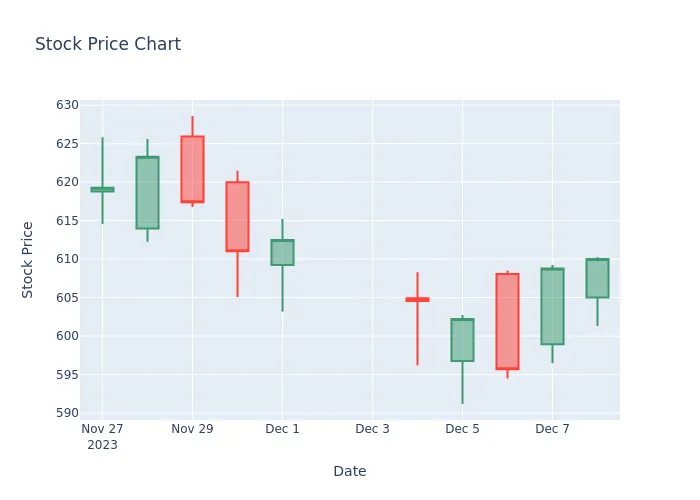
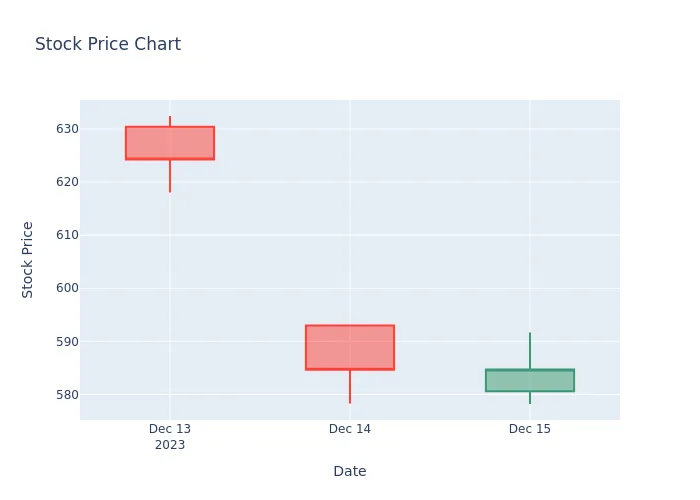
new dips

diff --git a/content/dipfinder.md b/content/dipfinder.md
@@ -23,7 +23,7 @@ Imagine you own a share of a company, which is like owning a tiny piece of that 
 In my case I wanted to find the longest consecutive "dip" of a stockprice regardless of temporary up's.
 
 ## Dip's
-The latest and greatest dips, updated at: **2023-12-10** (next: 2023-12-10)
+The latest and greatest dips, updated at: **2023-12-17** (next: 2023-12-17)
 
 | Symbol | Name | Loss | Days |
 | :----: | ---- | ---- | ---- |
@@ -33,10 +33,10 @@ The latest and greatest dips, updated at: **2023-12-10** (next: 2023-12-10)
 | [BABA](https://finance.yahoo.com/quote/BABA) | BABA | -30.219% | 254 |
 | [PFE](https://finance.yahoo.com/quote/PFE) | PFE | -28.662% | 242 |
 | [WBD](https://finance.yahoo.com/quote/WBD) | WBD | -28.043% | 284 |
-| [PYPL](https://finance.yahoo.com/quote/PYPL) | PYPL | -23.781% | 236 |
 | [NEE](https://finance.yahoo.com/quote/NEE) | NEE | -22.834% | 229 |
 | [MRK.DE](https://finance.yahoo.com/quote/MRK.DE) | MRK.DE | -21.916% | 288 |
 | [TCEHY](https://finance.yahoo.com/quote/TCEHY) | TCEHY | -21.497% | 254 |
+| [PYPL](https://finance.yahoo.com/quote/PYPL) | PYPL | -20.781% | 243 |
 | [SCHW](https://finance.yahoo.com/quote/SCHW) | SCHW | -19.414% | 287 |
 | [DE](https://finance.yahoo.com/quote/DE) | DE | -18.233% | 137 |
 | [MBG.DE](https://finance.yahoo.com/quote/MBG.DE) | MBG.DE | -17.385% | 176 |
@@ -70,6 +70,7 @@ The latest and greatest dips, updated at: **2023-12-10** (next: 2023-12-10)
 | [NVS](https://finance.yahoo.com/quote/NVS) | NVS | -8.399% | 142 |
 | [NVO](https://finance.yahoo.com/quote/NVO) | NVO | -8.355% | 14 |
 | [HXL](https://finance.yahoo.com/quote/HXL) | HXL | -8.209% | 150 |
+| [ADBE](https://finance.yahoo.com/quote/ADBE) | ADBE | -7.73% | 3 |
 | [ABBV](https://finance.yahoo.com/quote/ABBV) | ABBV | -7.553% | 228 |
 | [BAC](https://finance.yahoo.com/quote/BAC) | BAC | -7.148% | 280 |
 | [PG](https://finance.yahoo.com/quote/PG) | PG | -7.018% | 123 |
@@ -79,30 +80,28 @@ The latest and greatest dips, updated at: **2023-12-10** (next: 2023-12-10)
 | [NVDA](https://finance.yahoo.com/quote/NVDA) | NVDA | -5.751% | 18 |
 | [DTG.DE](https://finance.yahoo.com/quote/DTG.DE) | DTG.DE | -5.729% | 121 |
 | [TSM](https://finance.yahoo.com/quote/TSM) | TSM | -5.695% | 178 |
+| [GOOG](https://finance.yahoo.com/quote/GOOG) | GOOG | -5.547% | 66 |
 | [NDAQ](https://finance.yahoo.com/quote/NDAQ) | NDAQ | -5.494% | 183 |
 | [AMGN](https://finance.yahoo.com/quote/AMGN) | AMGN | -5.453% | 54 |
 | [MMM](https://finance.yahoo.com/quote/MMM) | MMM | -5.392% | 136 |
 | [NFLX](https://finance.yahoo.com/quote/NFLX) | NFLX | -5.38% | 14 |
-| [AVGO](https://finance.yahoo.com/quote/AVGO) | AVGO | -5.163% | 18 |
 | [CL](https://finance.yahoo.com/quote/CL) | CL | -4.647% | 211 |
 | [BAH](https://finance.yahoo.com/quote/BAH) | BAH | -4.519% | 4 |
 | [MELI](https://finance.yahoo.com/quote/MELI) | MELI | -4.481% | 7 |
 | [VEOEY](https://finance.yahoo.com/quote/VEOEY) | VEOEY | -4.154% | 141 |
 | [ICE](https://finance.yahoo.com/quote/ICE) | ICE | -4.066% | 102 |
-| [GOOG](https://finance.yahoo.com/quote/GOOG) | GOOG | -3.571% | 59 |
 | [CRM](https://finance.yahoo.com/quote/CRM) | CRM | -3.535% | 7 |
 | [C](https://finance.yahoo.com/quote/C) | C | -3.25% | 280 |
 | [LLY](https://finance.yahoo.com/quote/LLY) | LLY | -3.226% | 30 |
 | [MCD](https://finance.yahoo.com/quote/MCD) | MCD | -3.225% | 162 |
 | [SHOP](https://finance.yahoo.com/quote/SHOP) | SHOP | -2.944% | 3 |
-| [NET](https://finance.yahoo.com/quote/NET) | NET | -2.881% | 4 |
 | [MSFT](https://finance.yahoo.com/quote/MSFT) | MSFT | -2.213% | 10 |
 | [VNA.F](https://finance.yahoo.com/quote/VNA.F) | VNA.F | -2.138% | 2 |
-| [ADBE](https://finance.yahoo.com/quote/ADBE) | ADBE | -2.135% | 10 |
 | [SIE.DE](https://finance.yahoo.com/quote/SIE.DE) | SIE.DE | -2.027% | 177 |
 | [ADS.DE](https://finance.yahoo.com/quote/ADS.DE) | ADS.DE | -1.848% | 2 |
 | [TTWO](https://finance.yahoo.com/quote/TTWO) | TTWO | -1.82% | 8 |
 | [X010.DE](https://finance.yahoo.com/quote/X010.DE) | X010.DE | -1.763% | 69 |
+| [V](https://finance.yahoo.com/quote/V) | V | -1.658% | 2 |
 | [L0CK.F](https://finance.yahoo.com/quote/L0CK.F) | L0CK.F | -1.594% | 2 |
 | [EA](https://finance.yahoo.com/quote/EA) | EA | -1.449% | 137 |
 | [FFIV](https://finance.yahoo.com/quote/FFIV) | FFIV | -1.346% | 4 |
@@ -116,7 +115,6 @@ The latest and greatest dips, updated at: **2023-12-10** (next: 2023-12-10)
 | [INTU](https://finance.yahoo.com/quote/INTU) | INTU | -0.577% | 9 |
 | [MUV2.DE](https://finance.yahoo.com/quote/MUV2.DE) | MUV2.DE | -0.559% | 3 |
 | [AFL](https://finance.yahoo.com/quote/AFL) | AFL | -0.506% | 11 |
-| [V](https://finance.yahoo.com/quote/V) | V | -0.366% | 8 |
 | [UNH](https://finance.yahoo.com/quote/UNH) | UNH | -0.24% | 8 |
 | [AMZN](https://finance.yahoo.com/quote/AMZN) | AMZN | -0.21% | 11 |
 | [AMD](https://finance.yahoo.com/quote/AMD) | AMD | -0.209% | 180 |
@@ -124,9 +122,11 @@ The latest and greatest dips, updated at: **2023-12-10** (next: 2023-12-10)
 | [DTE.DE](https://finance.yahoo.com/quote/DTE.DE) | DTE.DE | -0.088% | 2 |
 | [ATVI](https://finance.yahoo.com/quote/ATVI) | ATVI | -0.053% | 9 |
 | [COST](https://finance.yahoo.com/quote/COST) | COST | -0.028% | 1 |
+| [NET](https://finance.yahoo.com/quote/NET) | NET | 0.0% | 0 |
 | [EL4X.DE](https://finance.yahoo.com/quote/EL4X.DE) | EL4X.DE | 0.0% | 0 |
 | [QCOM](https://finance.yahoo.com/quote/QCOM) | QCOM | 0.0% | 0 |
 | [ALV.F](https://finance.yahoo.com/quote/ALV.F) | ALV.F | 0.0% | 0 |
+| [AVGO](https://finance.yahoo.com/quote/AVGO) | AVGO | 0.0% | 0 |
 | [VUSA.F](https://finance.yahoo.com/quote/VUSA.F) | VUSA.F | 0.0% | 0 |
 | [VGWL.DE](https://finance.yahoo.com/quote/VGWL.DE) | VGWL.DE | 0.0% | 0 |
 | [BA](https://finance.yahoo.com/quote/BA) | BA | 0.0% | 0 |
@@ -194,15 +194,6 @@ ___
 ![Chart of the last 284 days of WBD's stockprice](/charts/WBD.webp)
 ___
 
-#### PYPL Info
-- Yahoo Finance Link: [PYPL](https://finance.yahoo.com/quote/PYPL)
-- Name: PYPL
-- Days: 236
-- Total "dip": -23.781% 
-#### PYPL Chart
-![Chart of the last 236 days of PYPL's stockprice](/charts/PYPL.webp)
-___
-
 #### NEE Info
 - Yahoo Finance Link: [NEE](https://finance.yahoo.com/quote/NEE)
 - Name: NEE
@@ -228,6 +219,15 @@ ___
 - Total "dip": -21.497% 
 #### TCEHY Chart
 ![Chart of the last 254 days of TCEHY's stockprice](/charts/TCEHY.webp)
+___
+
+#### PYPL Info
+- Yahoo Finance Link: [PYPL](https://finance.yahoo.com/quote/PYPL)
+- Name: PYPL
+- Days: 243
+- Total "dip": -20.781% 
+#### PYPL Chart
+![Chart of the last 243 days of PYPL's stockprice](/charts/PYPL.webp)
 ___
 
 #### SCHW Info
@@ -527,6 +527,15 @@ ___
 ![Chart of the last 150 days of HXL's stockprice](/charts/HXL.webp)
 ___
 
+#### ADBE Info
+- Yahoo Finance Link: [ADBE](https://finance.yahoo.com/quote/ADBE)
+- Name: ADBE
+- Days: 3
+- Total "dip": -7.73% 
+#### ADBE Chart
+![Chart of the last 3 days of ADBE's stockprice](/charts/ADBE.webp)
+___
+
 #### ABBV Info
 - Yahoo Finance Link: [ABBV](https://finance.yahoo.com/quote/ABBV)
 - Name: ABBV
@@ -608,6 +617,15 @@ ___
 ![Chart of the last 178 days of TSM's stockprice](/charts/TSM.webp)
 ___
 
+#### GOOG Info
+- Yahoo Finance Link: [GOOG](https://finance.yahoo.com/quote/GOOG)
+- Name: GOOG
+- Days: 66
+- Total "dip": -5.547% 
+#### GOOG Chart
+![Chart of the last 66 days of GOOG's stockprice](/charts/GOOG.webp)
+___
+
 #### NDAQ Info
 - Yahoo Finance Link: [NDAQ](https://finance.yahoo.com/quote/NDAQ)
 - Name: NDAQ
@@ -642,15 +660,6 @@ ___
 - Total "dip": -5.38% 
 #### NFLX Chart
 ![Chart of the last 14 days of NFLX's stockprice](/charts/NFLX.webp)
-___
-
-#### AVGO Info
-- Yahoo Finance Link: [AVGO](https://finance.yahoo.com/quote/AVGO)
-- Name: AVGO
-- Days: 18
-- Total "dip": -5.163% 
-#### AVGO Chart
-![Chart of the last 18 days of AVGO's stockprice](/charts/AVGO.webp)
 ___
 
 #### CL Info
@@ -698,15 +707,6 @@ ___
 ![Chart of the last 102 days of ICE's stockprice](/charts/ICE.webp)
 ___
 
-#### GOOG Info
-- Yahoo Finance Link: [GOOG](https://finance.yahoo.com/quote/GOOG)
-- Name: GOOG
-- Days: 59
-- Total "dip": -3.571% 
-#### GOOG Chart
-![Chart of the last 59 days of GOOG's stockprice](/charts/GOOG.webp)
-___
-
 #### CRM Info
 - Yahoo Finance Link: [CRM](https://finance.yahoo.com/quote/CRM)
 - Name: CRM
@@ -752,15 +752,6 @@ ___
 ![Chart of the last 3 days of SHOP's stockprice](/charts/SHOP.webp)
 ___
 
-#### NET Info
-- Yahoo Finance Link: [NET](https://finance.yahoo.com/quote/NET)
-- Name: NET
-- Days: 4
-- Total "dip": -2.881% 
-#### NET Chart
-![Chart of the last 4 days of NET's stockprice](/charts/NET.webp)
-___
-
 #### MSFT Info
 - Yahoo Finance Link: [MSFT](https://finance.yahoo.com/quote/MSFT)
 - Name: MSFT
@@ -777,15 +768,6 @@ ___
 - Total "dip": -2.138% 
 #### VNA.F Chart
 ![Chart of the last 2 days of VNA.F's stockprice](/charts/VNA.F.webp)
-___
-
-#### ADBE Info
-- Yahoo Finance Link: [ADBE](https://finance.yahoo.com/quote/ADBE)
-- Name: ADBE
-- Days: 10
-- Total "dip": -2.135% 
-#### ADBE Chart
-![Chart of the last 10 days of ADBE's stockprice](/charts/ADBE.webp)
 ___
 
 #### SIE.DE Info
@@ -822,6 +804,15 @@ ___
 - Total "dip": -1.763% 
 #### X010.DE Chart
 ![Chart of the last 69 days of X010.DE's stockprice](/charts/X010.DE.webp)
+___
+
+#### V Info
+- Yahoo Finance Link: [V](https://finance.yahoo.com/quote/V)
+- Name: V
+- Days: 2
+- Total "dip": -1.658% 
+#### V Chart
+![Chart of the last 2 days of V's stockprice](/charts/V.webp)
 ___
 
 #### L0CK.F Info
@@ -941,15 +932,6 @@ ___
 ![Chart of the last 11 days of AFL's stockprice](/charts/AFL.webp)
 ___
 
-#### V Info
-- Yahoo Finance Link: [V](https://finance.yahoo.com/quote/V)
-- Name: V
-- Days: 8
-- Total "dip": -0.366% 
-#### V Chart
-![Chart of the last 8 days of V's stockprice](/charts/V.webp)
-___
-
 #### UNH Info
 - Yahoo Finance Link: [UNH](https://finance.yahoo.com/quote/UNH)
 - Name: UNH
@@ -1013,6 +995,15 @@ ___
 ![Chart of the last 1 days of COST's stockprice](/charts/COST.webp)
 ___
 
+#### NET Info
+- Yahoo Finance Link: [NET](https://finance.yahoo.com/quote/NET)
+- Name: NET
+- Days: 0
+- Total "dip": 0.0% 
+#### NET Chart
+![Chart of the last 0 days of NET's stockprice](/charts/NET.webp)
+___
+
 #### EL4X.DE Info
 - Yahoo Finance Link: [EL4X.DE](https://finance.yahoo.com/quote/EL4X.DE)
 - Name: EL4X.DE
@@ -1038,6 +1029,15 @@ ___
 - Total "dip": 0.0% 
 #### ALV.F Chart
 ![Chart of the last 0 days of ALV.F's stockprice](/charts/ALV.F.webp)
+___
+
+#### AVGO Info
+- Yahoo Finance Link: [AVGO](https://finance.yahoo.com/quote/AVGO)
+- Name: AVGO
+- Days: 0
+- Total "dip": 0.0% 
+#### AVGO Chart
+![Chart of the last 0 days of AVGO's stockprice](/charts/AVGO.webp)
 ___
 
 #### VUSA.F Info
